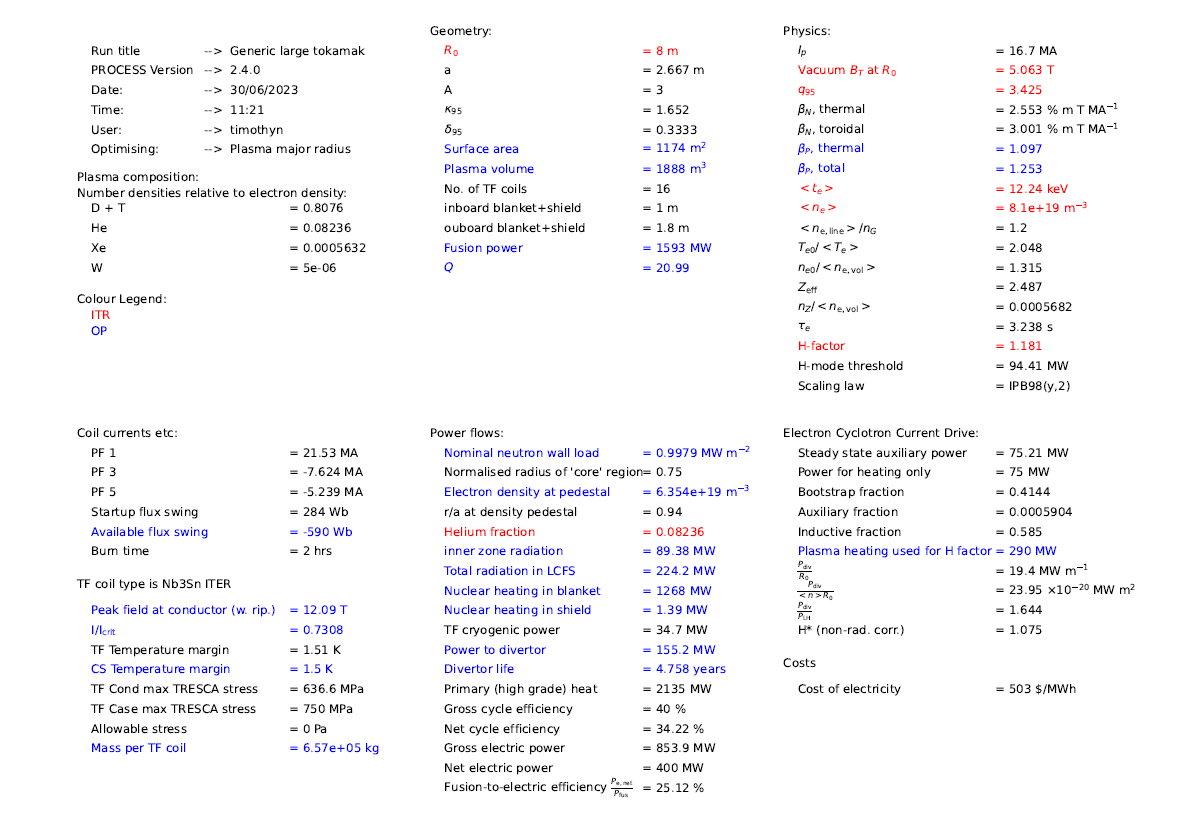
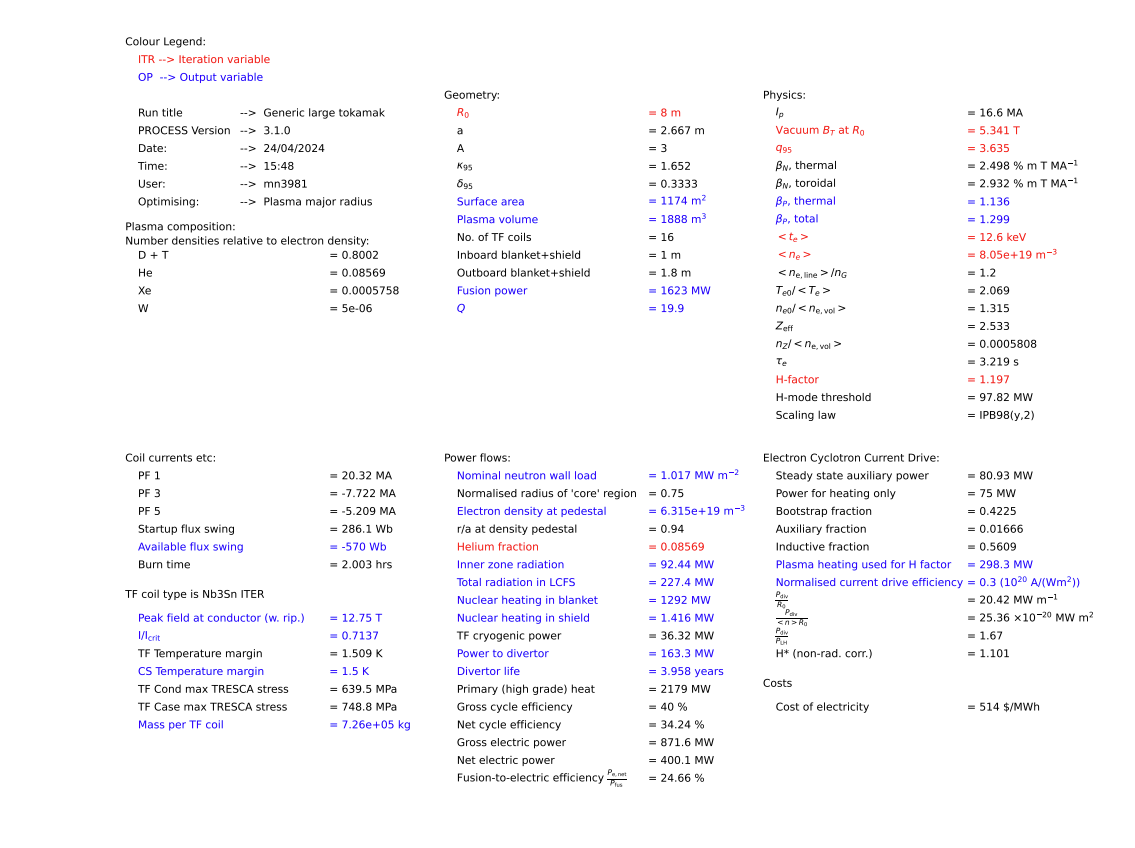
First doc changes

diff --git a/process/io/plot_proc.py b/process/io/plot_proc.py
@@ -2755,7 +2755,7 @@ def plot_current_drive_info(axis, mfile_data, scan):
             (
                 "gamcd",
                 "Normalised current drive efficiency",
-                "(10$^{19}$ A/(Wm$^{2}$))",
+                "(10$^{20}$ A/(Wm$^{2}$))",
             ),
             (pdivr, r"$\frac{P_{\mathrm{div}}}{R_{0}}$", "MW m$^{-1}$"),
             (

diff --git a/documentation/proc-pages/io/utilities.md b/documentation/proc-pages/io/utilities.md
@@ -74,7 +74,7 @@ A utility to produce a three-page PDF summary of the output from PROCESS, includ
 ### Usage
 
 ```bash
-python process/io/plot_proc.py [-h] [-f path/to/MFILE.DAT] [-s]
+python process/io/plot_proc.py [-h] [-f path/to/MFILE.DAT] [-s] [-n N] [-d] [-c COLOUR]
 ```
 
 If no `-f` argument is provided it assumes a file named `MFILE.DAT` is in the current directory.
@@ -82,9 +82,12 @@ If no `-f` argument is provided it assumes a file named `MFILE.DAT` is in the cu
 ### Options
 | Argument               | Description                      |
 | ---------------------- | -------------------------------- |
-| `-h --help`            | show help message and exit       |
-| `-f path/to/MFILE.DAT` | specify input/output file prefix |
-| `-s, --show`           | show plot                        |
+| `-h --help`            | Show help message and exit       |
+| `-f FILENAME`          | Specify input/output file path   |
+| `-s, --show`           | Show plot                        |
+| `-n, N`                | Which scan number to plot        |
+| `-d, --DEMO_ranges`    | Uses the DEMO dimensions as ranges for all graphics        |
+| `-c, COLOUR`           | Which colour scheme to use for cross-section plots; 1: Original PROCESS (default), 2: BLUEMIRA        |
 
 ### Output
 Produces a three-page PDF file in the same directory as the input MFILE. The PDF file name has the same prefix as the input MFILE but ending in `SUMMARY.pdf` 
@@ -105,71 +108,82 @@ Produces a three-page PDF file in the same directory as the input MFILE. The PDF
 
 `Plasma Composition` - Number densities of several ion species relative to the electron density.
 
-`Coil Currents etc` - Peak coil currents of the PF coils in $MA$, flux swing of the central solenoid 
-used for startup and total available in $Wb$. Total burn time `tburn` in hrs.
+`Coil Currents etc` - Peak coil currents of the PF coils in $\text{MA}$, flux swing of the central solenoid 
+used for startup and total available in $\text{Wb}$. Total burn time `tburn` in hrs.
 
-`Cost of electricity` - This is the cost of electricity in $/MWh$. Check the respective cost model 
+`Cost of electricity` - This is the cost of electricity in $/\text{MWh}$. Check the respective cost model 
 for the reference year of the inflation used.
 
 | Geometry                                                   |
 | :--------------------------------------------------------- |
-| major radius $R_0$                                         |
-| minor radius $a$                                           |
-| aspect ratio $A$                                           |
-| elongation at the 95% flux surface $\kappa_{95}$           |
-| plasma triangularity at the 95% flux surface $\delta_{95}$ |
-| plasma surface area                                        |
-| plasma volume                                              |
-| number of TF coils                                         |
-| inboard/outboard blanket thickness                         |
-| inboard/outboard shield thickness                          |
-| total fusion power                                         |
+| Major radius, $R_0$                                         |
+| Minor radius, $a$                                           |
+| Aspect ratio, $A$                                           |
+| Elongation at the 95% flux surface, $\kappa_{95}$          |
+| Plasma triangularity at the 95% flux surface, $\delta_{95}$|
+| Plasma surface area                                        |
+| Plasma volume                                              |
+| Number of TF coils                                         |
+| Inboard blanket + shield                                   |
+| Outboard blanket + shield                                  |
+| Total fusion power                                         |
+| $Q_{\text{p}}$                                             |
 
 | Power flows                                                                                                 |
 | :---------------------------------------------------------------------------------------------------------- |
-| average neutron wall load $W_{all}=\frac{P_{neutrons}}{S_{plasma,surface}f_{user}}$[^2]                     |
-| normalised radius of the 'core' region $\rho_{core}$ used in the radiation correction of the                |
-| confinement scaling[^3] [^4]                                                                                |
-| the electron density at the pedestal top $n_{e,ped}[m^{-3}]$                                                |
-| the normalised radius $\rho=r/a$ at the pedestal top                                                        |
-| the helium fraction relative to the electron density                                                        |
-| the core radiation $P_{rad} (\rho<\rho_{core})$ subtracted from $P_{heat}$ in confinement scaling           |
-| $W_{th}$, the total radiation inside the separatrix                                                         |
-| nuclear heating power to blanket $P_{nuc,blkt}= P_{neutr} (1-e^{-\frac{\Delta x_{blkt}}{\lambda_{decay}}})$ |
-| nuclear heating power to the shield $P_{nuc,shld}=P_{neutr}-P_{nuc,blkt}$                                   |
-| power crossing the separatrix into the SoL/Divertor $P_{sep}$                                               |
-| L-H threshold power $P_{LH}$                                                                                |
-| divertor lifetime in years                                                                                  |
-| high grade heat for electricity production $P_{therm}$                                                      |
-| gross cycle efficiency $P_{e,gross}/P_{therm}$                                                              |
-| net cycle efficiency $\frac{P_{e,gross}-P_{heat,pump}}{P_{therm}-P_{heat,pump}}$                            |
-| net electric power $P_{e,net}=P_{e,gross}-P_{recirc}$                                                       |
-| plant efficiency $P_{e,net}/P_{fus}$                                                                        |
+| Nominal neutron wall load[^2]                     |
+| Normalised radius of the 'core' region $\rho_{core}$ used in the radiation correction of the onfinement scaling[^3] [^4]               |
+| The electron density at the pedestal top, $n_{\text{e,ped}}[\text{m}^{-3}]$                                               |
+| The normalised radius $\rho=r/a$ at the pedestal top                                                        |
+| The helium fraction relative to the electron density                                                        |
+| The core radiation $P_{\text{rad}} (\rho<\rho_{\text{core}})$ subtracted from $P_{\text{heat}}$ in confinement scaling           |
+|  The total radiation inside the separatrix (LCFS), $W_{\text{th}}$                                                         |
+| Nuclear heating power to blanket $P_{\text{nuc,blkt}}= P_{\text{neutr}} \left(1-e^{-\frac{\Delta x_{\text{blkt}}}{\lambda_{\text{decay}}}}\right)$ |
+| Nuclear heating power to the shield $P_{\text{nuc,shld}}=P_{\text{neutr}}-P_{\text{nuc,blkt}}$                                   |
+| TF cryogenic power                                                                                   |
+| Power to the divertor                                                                                   |
+| Divertor lifetime in years                                                                                  |
+| Primary high grade heat for electricity production, $P_{\text{therm}}$                                                      |
+| Gross cycle efficiency, $P_{\text{e,gross}}/P_{\text{therm}}$                                                              |
+| Net cycle efficiency, $\frac{P_{\text{e,gross}}-P_{\text{heat,pump}}}{P_{\text{therm}}-P_{\text{heat,pump}}}$                            |
+| Net electric power, $P_{\text{e,net}}=P_{\text{e,gross}}-P_{\text{recirc}}$                                                       |
+| Fusion-to-electric efficiency, $P_{\text{e,net}}/P_{\text{fus}}$                                                                        |
 
 | Physics                                                                                                         |
 | :-------------------------------------------------------------------------------------------------------------- |
-| plasma current $I_P[MA]$                                                                                        |
-| vaccuum magnetic field at in the plasma centre $B_T(R_0)$                                                       |
-| safety factor at the 95\% flux surface $q_{95}$                                                                 |
-| definitions of $\beta$ as given in [^1]                                                                         |
-| volume averaged electron temperature $\langle T_e\rangle$ and density $\langle n_e\rangle$                      |
-| fraction of the line averaged electron density over the Greenwald density $\langle n_{e,line}\rangle / n_{GW}$  |
-| peaking of the electron temperature $T_{e,0}/\langle T_e\rangle$ and density $n_{e,0}/\langle n_{e,vol}\rangle$ |
-| core and SoL effective charge $Z_{eff}=\sum_i f_iZ_i^2$                                                         |
-| impurity fraction $f_Z=n_Z/\langle n_e\rangle$                                                                  |
-| H-factor and confinement time are calculated using a radiation corrected confinement scaling[^3] [^4].          |
+| Plasma current, $I_{\text{P}}[\text{MA}]$                                                                                        |
+| Vaccuum magnetic field at in the plasma centre, $B_{\text{T}}(R_0)$                                                       |
+| Safety factor at the 95% flux surface, $q_{95}$                                                                 |
+| Definitions of $\beta$ as given in [^1]                                                                         |
+| Volume averaged electron temperature $\langle T_e\rangle$ and density $\langle n_e\rangle$                      |
+| Fraction of the line averaged electron density over the Greenwald density, $\langle n_{\text{e,line}}\rangle / n_{\text{GW}}$  |
+| Peaking of the electron temperature $T_{\text{e,0}}/\langle T_{\text{e}}\rangle$ and density $n_{\text{e,0}}/\langle n_{\text{e,vol}}\rangle$ |
+| Plasma effective charge, $Z_{\text{eff}}=\sum_i f_iZ_i^2$                                                         |
+| Impurity fraction, $f_Z=n_Z/\langle n_e\rangle$                                                                  |
+| H-factor and confinement time calculated from a radiation corrected confinement scaling[^3] [^4].          |
+| L-H threshold power, $P_{\text{LH}}$                                                                                |
+| The confinement time scaling law used                            |
 
-| Neutral Beam Current Drive                                                                                                                                           |
+| Heating & Current Drive   |
 | :------------------------------------------------------------------------------------------------------------------------------------------------------------------- |
-| the steady state auxiliary power used for heating and current drive during the flat top phase (NOT to be confused with the start up or ramp down power requirements) |
-| part of the auxiliary power that is used for heating only, but not current drive                                                                                     |
-| current drive fractions for the inductive, auxiliary and bootstrap current                                                                                           |
-| the neutral beam current drive efficiency $\gamma_{NB}$                                                                                                              |
-| the neutral beam energy                                                                                                                                              |
-| the plasma heating used in the calculation of the confinement scaling/H-factor $P_{aux} + P_\alpha - P_{rad,core}$                                                   |
-| the divertor figure of merit $P_{sep}/R$, $P_{sep}/(\langle n_e\rangle R)$                                                                                           |
-| fraction of the power crossing the separatrix with respect to the LH-threshold power $P_{sep}/P_{LH}$                                                                |
-| non-radiation corrected H-factor (calculated for info only)                                                                                                          |
+| The steady state auxiliary power used for heating and current drive during the flat top phase (NOT to be confused with the start up or ramp down power requirements) |
+| Part of the auxiliary power that is used for heating only, but not current drive                                                                                     |
+| Current drive fractions for the bootstrap auxiliary and inductive current                                                                                           |
+| The neutral beam current drive efficiency, $\gamma_{NB}$ (If NBI used)                                                                                                             |
+| The neutral beam energy (If NBI used)                                                                                                                                             |
+| The plasma heating used in the calculation of the confinement scaling / H-factor, $P_{\text{aux}} + P_\alpha - P_{\text{rad,core}}$                                                   |
+|The normalised current drive efficiency, [$\text{A/W}\text{m}^2$]|
+| The divertor figures of merit, $\frac{P_{\text{sep}}}{R}$  &  $\frac{P_{\text{sep}}}{\langle n_e\rangle R}$                                                                                           |
+| Fraction of the power crossing the separatrix with respect to the LH-threshold power $P_{\text{sep}}/P_{\text{LH}}$                                                                |
+| Non-radiation corrected H-factor, $\text{H*}$ (Calculated for info only)                                                                                                          |
+
+| TF and WP structure                                                                                                 |
+| :---------------------------------------------------------------------------------------------------------- |
+||
+||
+||
+||
+||
 
 ## Sankey Diagram
 
